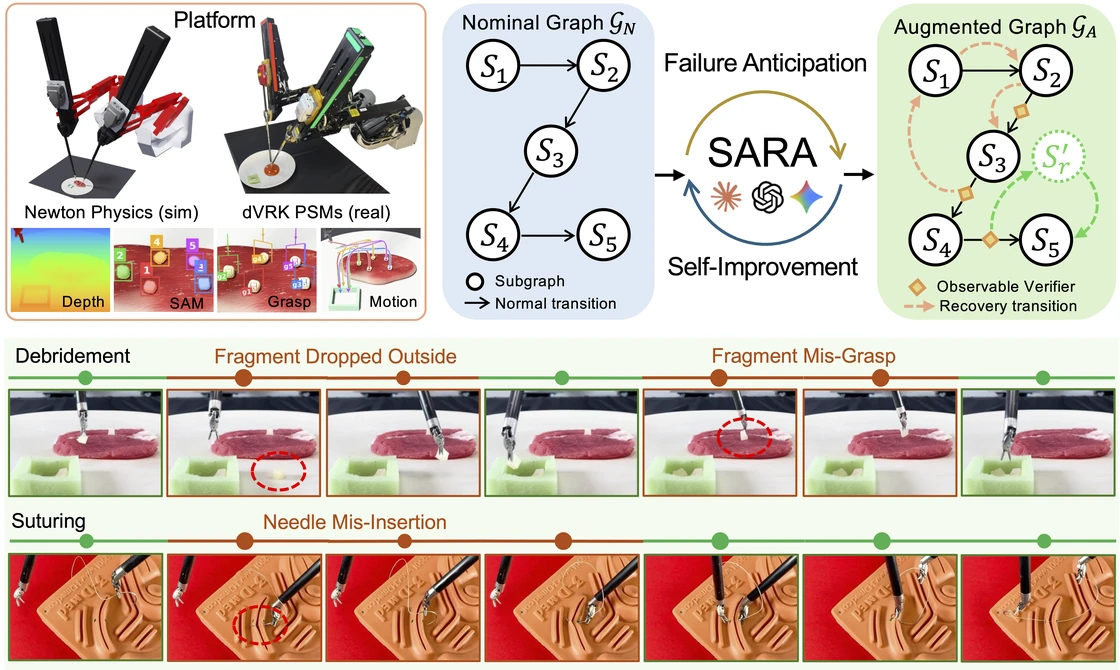
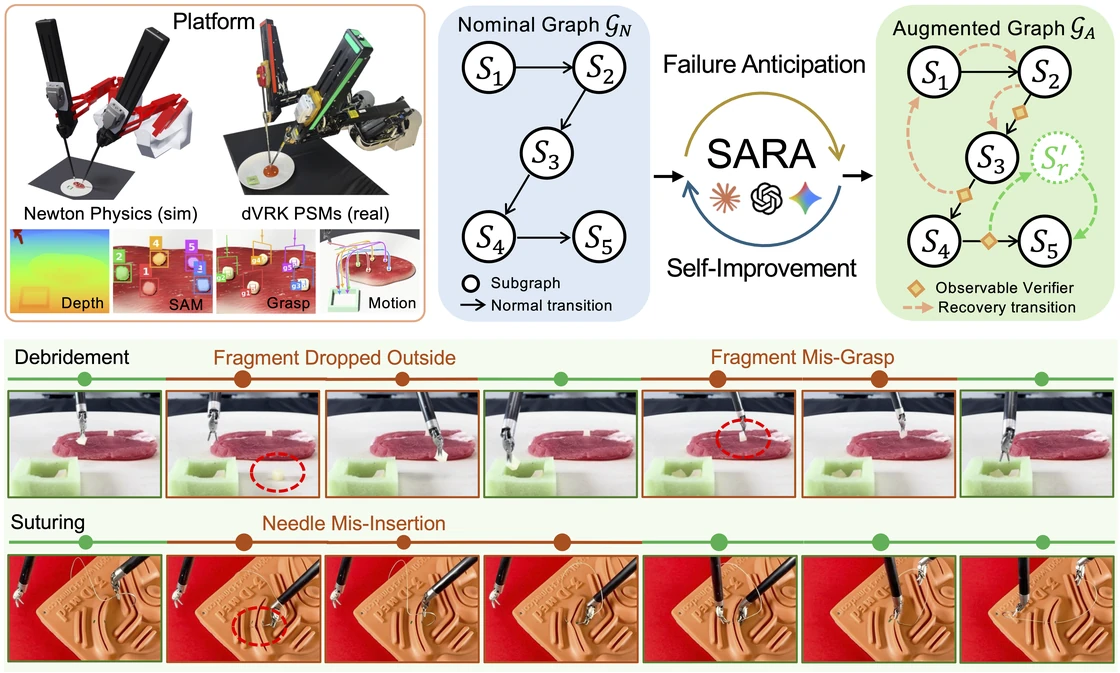
Refresh abstract figure and previews

diff --git a/index.html b/index.html
@@ -14,18 +14,18 @@
 <meta property="og:title" content="SARA: Toward Surgical Agentic Robotics for Resilient Manipulation">
 <meta property="og:description" content="SARA anticipates failure modes, synthesizes observable verifiers, and plans recovery chains for resilient surgical manipulation in simulation and on the physical dVRK platform.">
 <meta property="og:url" content="https://surgical-robotics.github.io/SARA/">
-<meta property="og:image" content="https://surgical-robotics.github.io/SARA/static/images/abstract.png?v=ab034c97456b">
+<meta property="og:image" content="https://surgical-robotics.github.io/SARA/static/images/abstract.png?v=f3d802cdb4bc">
 <meta name="twitter:card" content="summary_large_image">
 <meta name="twitter:title" content="SARA: Toward Surgical Agentic Robotics for Resilient Manipulation">
 <meta name="twitter:description" content="SARA anticipates failure modes, synthesizes observable verifiers, and plans recovery chains for resilient surgical manipulation in simulation and on the physical dVRK platform.">
-<meta name="twitter:image" content="https://surgical-robotics.github.io/SARA/static/images/abstract.png?v=ab034c97456b">
+<meta name="twitter:image" content="https://surgical-robotics.github.io/SARA/static/images/abstract.png?v=f3d802cdb4bc">
 <meta name="citation_title" content="SARA: Toward Surgical Agentic Robotics for Resilient Manipulation">
 <!-- Add confirmed authors, venue, paper URL, and final BibTeX when available. -->
 <link rel="stylesheet" href="static/css/index.css?v=active-group-nav-31">
 <script defer src="static/js/index.js?v=eager-buffer-visible-playback-7"></script>
 <script defer src="static/js/video-states.js?v=deferred-sources-12"></script>
 <script defer src="static/js/media-controls.js?v=6"></script>
-<script type="application/ld+json">{"@context": "https://schema.org", "@type": "ScholarlyArticle", "headline": "SARA: Toward Surgical Agentic Robotics for Resilient Manipulation", "description": "SARA anticipates failure modes, synthesizes observable verifiers, and plans recovery chains for resilient surgical manipulation in simulation and on the physical dVRK platform.", "url": "https://surgical-robotics.github.io/SARA/", "image": "https://surgical-robotics.github.io/SARA/static/images/abstract.png?v=ab034c97456b"}</script>
+<script type="application/ld+json">{"@context": "https://schema.org", "@type": "ScholarlyArticle", "headline": "SARA: Toward Surgical Agentic Robotics for Resilient Manipulation", "description": "SARA anticipates failure modes, synthesizes observable verifiers, and plans recovery chains for resilient surgical manipulation in simulation and on the physical dVRK platform.", "url": "https://surgical-robotics.github.io/SARA/", "image": "https://surgical-robotics.github.io/SARA/static/images/abstract.png?v=f3d802cdb4bc"}</script>
 </head>
 <body>
 <div class="reading-progress" aria-hidden="true"><span></span></div>
@@ -52,7 +52,7 @@
 <section class="section overview" id="abstract"><div class="container">
 <div class="section-heading"><h2>Abstract</h2></div>
 <div class="abstract-copy"><p>Augmented dexterity promises to relieve surgeon workload and improve surgical performance, yet it still requires expert algorithmic engineering for each manipulation task. Can emerging coding agents deliver augmented dexterity across tasks, while remaining reliable under failure? In this work, we introduce SARA (Surgical Agent for Resilient Autonomy), an agentic surgical robotics framework that executes diverse manipulation tasks autonomously and resiliently. Given a nominal task graph composed of reusable surgical skills, SARA proactively anticipates how the skills may fail and induces those failures in a physics-based sandbox. From the induced and naturally occurring failures, it writes observable verifiers for the skills and proposes failure-specific recovery strategies, either by re-executing upstream skills of the nominal graph or by escalating to the broader skill library. SARA then rehearses the candidate augmented graph in the sandbox, refining the ineffective strategies in a self-improvement loop, and retains only the validated verifiers and recoveries in the final augmented graph. We evaluate SARA on 8 surgical tasks in Newton-based simulation and 6 tasks on a physical da Vinci robot.</p></div>
-<figure class="research-figure"><button class="figure-zoom" type="button" data-image="static/images/abstract.png?v=ab034c97456b" aria-label="Enlarge SARA system overview"><img src="static/images/abstract-1120.webp?v=a1dda1146ae0" srcset="static/images/abstract-1120.webp?v=a1dda1146ae0 1120w, static/images/abstract-2240.webp?v=b459b93bd007 2240w" sizes="(max-width: 760px) calc(100vw - 36px), (max-width: 1184px) calc(100vw - 64px), 1120px" alt="SARA system overview: a nominal surgical skill graph is augmented with observable verifiers and recovery chains through failure anticipation and self-improvement in the Newton dVRK sandbox. Debridement and suturing sequences show recovery from dropped fragments, missed grasps, and needle insertion failures on the physical robot." width="2240" height="1341" loading="eager" fetchpriority="high" decoding="async"><span class="zoom-hint">Enlarge figure ↗</span></button><figcaption><strong>SARA surgical agentic system overview.</strong> Starting from a nominal graph <math aria-label="G subscript N"><msub><mi>𝒢</mi><mi>N</mi></msub></math> of reusable surgical skills, SARA proactively anticipates failure modes, synthesizes observable verifiers, and plans corresponding recovery chains to construct an augmented directed graph <math aria-label="G subscript A"><msub><mi>𝒢</mi><mi>A</mi></msub></math>. Through iterative self-improvement and validation in a Newton physics-based dVRK sandbox, SARA retains validated verifiers and recovery chains before deploying the augmented graph on the physical dVRK platform for resilient task execution. The debridement and suturing sequences illustrate recovery from dropped fragments, missed grasps, and needle insertion failures.</figcaption></figure>
+<figure class="research-figure"><button class="figure-zoom" type="button" data-image="static/images/abstract.png?v=f3d802cdb4bc" aria-label="Enlarge SARA system overview"><img src="static/images/abstract-1120.webp?v=99c4cd5a6f76" srcset="static/images/abstract-1120.webp?v=99c4cd5a6f76 1120w, static/images/abstract-2240.webp?v=039d5fef3cd6 2240w" sizes="(max-width: 760px) calc(100vw - 36px), (max-width: 1184px) calc(100vw - 64px), 1120px" alt="SARA system overview: a nominal surgical skill graph is augmented with observable verifiers and recovery chains through failure anticipation and self-improvement in the Newton dVRK sandbox. Debridement and suturing sequences show recovery from dropped fragments, missed grasps, and needle insertion failures on the physical robot." width="2240" height="1347" loading="eager" fetchpriority="high" decoding="async"><span class="zoom-hint">Enlarge figure ↗</span></button><figcaption><strong>SARA surgical agentic system overview.</strong> Starting from a nominal graph <math aria-label="G subscript N"><msub><mi>𝒢</mi><mi>N</mi></msub></math> of reusable surgical skills, SARA proactively anticipates failure modes, synthesizes observable verifiers, and plans corresponding recovery chains to construct an augmented directed graph <math aria-label="G subscript A"><msub><mi>𝒢</mi><mi>A</mi></msub></math>. Through iterative self-improvement and validation in a Newton physics-based dVRK sandbox, SARA retains validated verifiers and recovery chains before deploying the augmented graph on the physical dVRK platform for resilient task execution. The debridement and suturing sequences illustrate recovery from dropped fragments, missed grasps, and needle insertion failures.</figcaption></figure>
 </div></section>
 <section class="section method-section" id="method"><div class="container">
 <p class="method-question">Can emerging coding agents deliver augmented dexterity across diverse surgical tasks and remain reliable when failures occur?</p>

diff --git a/README.md b/README.md
@@ -115,7 +115,7 @@ question introduces Method: "Can emerging coding agents deliver augmented dexter
 across diverse surgical tasks and remain reliable when failures occur?" The question shares
 the figure's full width, with justified text and no bold emphasis. The updated overview
 figure appears in full, including the debridement and suturing failure-recovery
-sequences. Responsive 1120px/2240px WebP previews (approximately 142/336 KB) load
+sequences. Responsive 1120px/2240px WebP previews (approximately 140/337 KB) load
 eagerly with high priority instead of the 9.7 MB PNG. The previews preserve the
 source color profile. Clicking first shows the cached preview, then replaces it
 with the original full-resolution image once loaded. Both research figures have
@@ -188,7 +188,7 @@ All other intervals show normal execution.
 
 ## Media preparation
 
-- Overview original: `static/images/abstract.png` (5533×3312, unchanged; loaded on zoom and used by social metadata).
+- Overview original: `static/images/abstract.png` (5536×3328, unchanged; loaded on zoom and used by social metadata).
 - Overview previews: `static/images/abstract-1120.webp` and `static/images/abstract-2240.webp` (responsive, content-versioned URLs).
 - Method: `static/images/sara_pipeline.png`.
 - Video posters: `static/images/posters/`.
